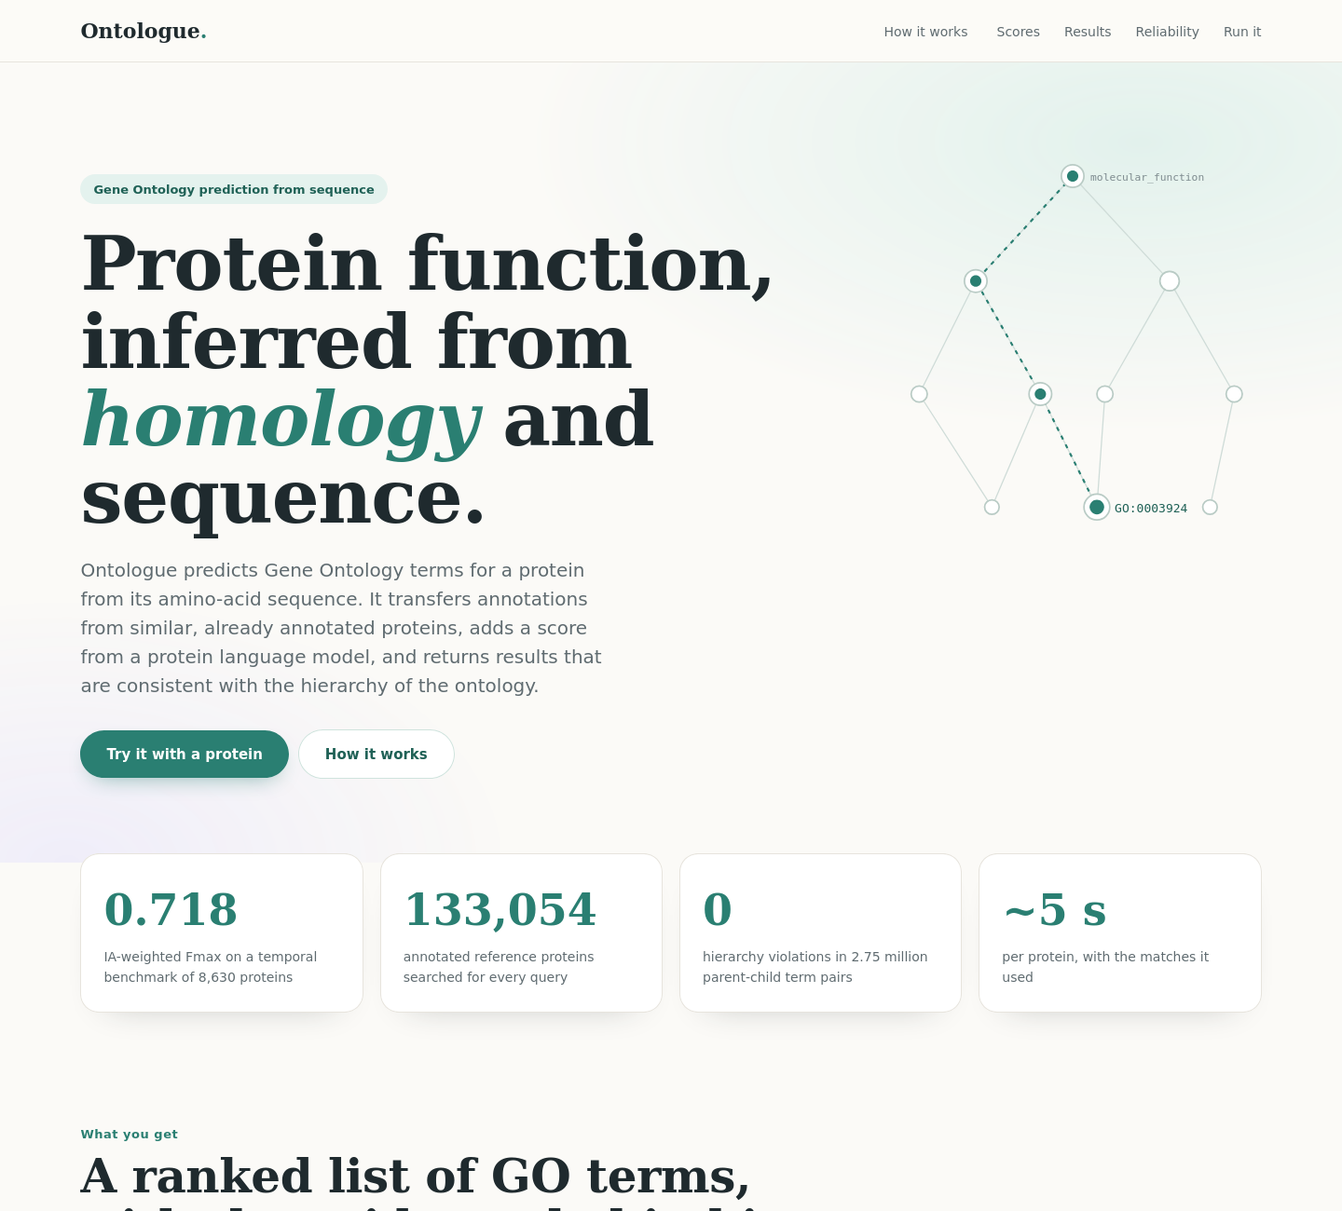
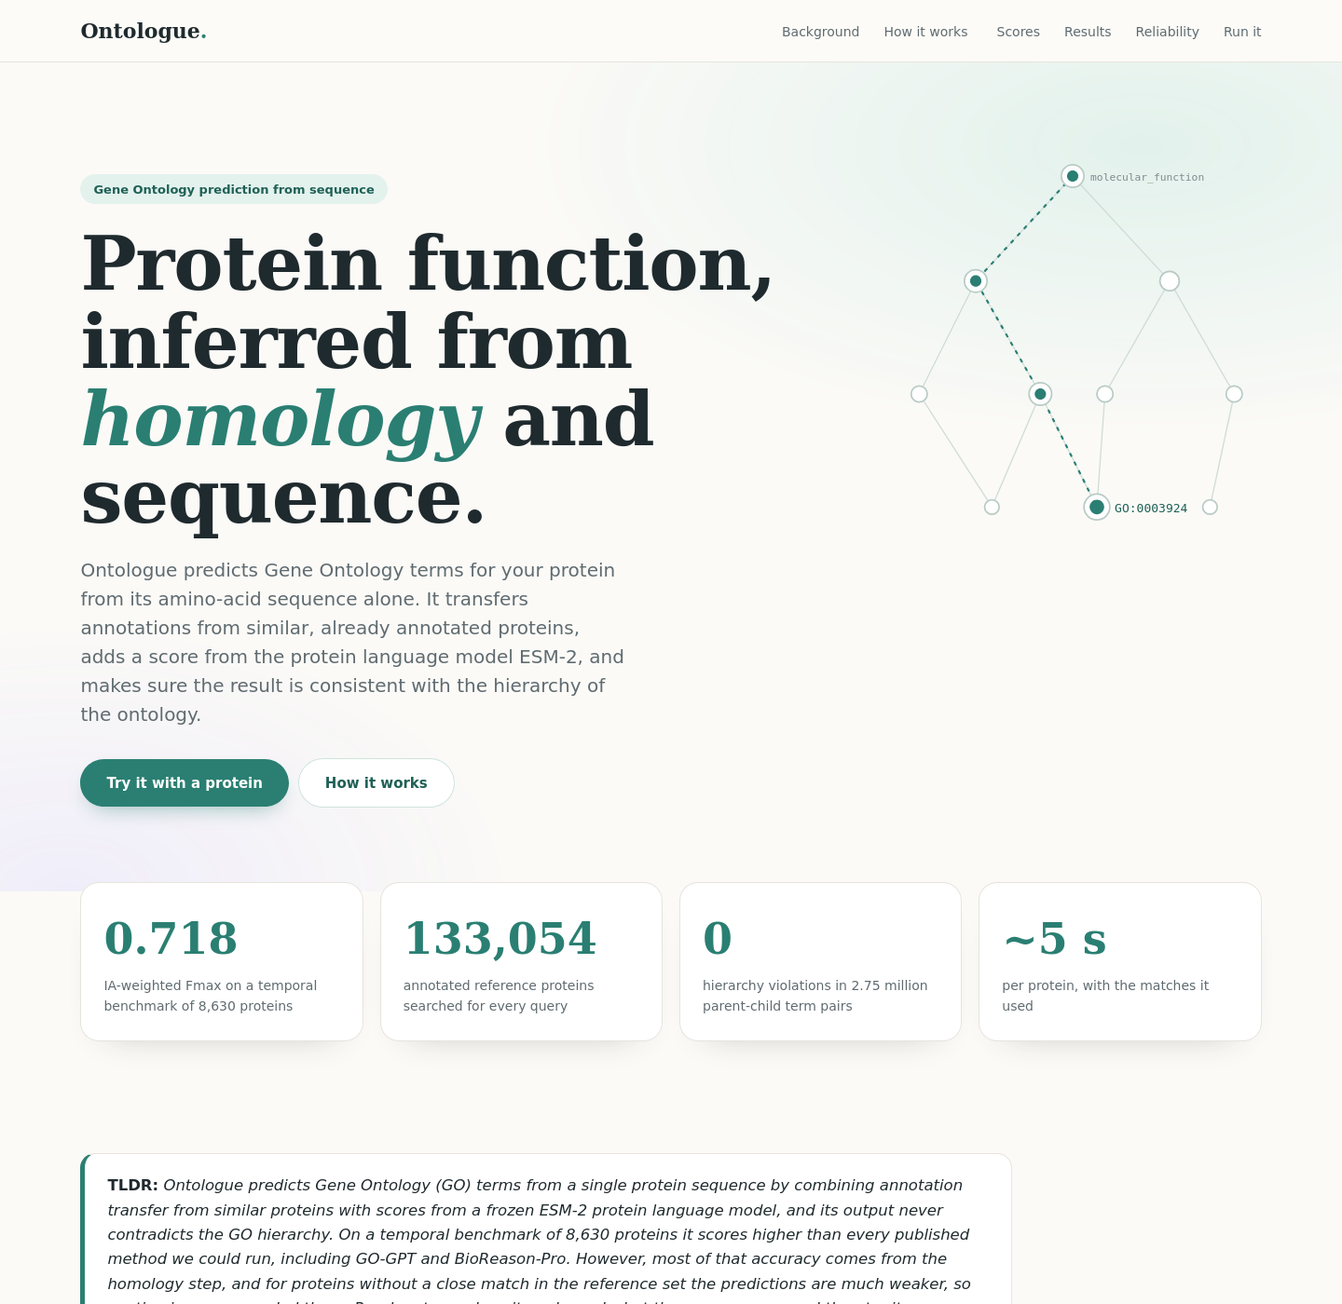
Ontologue: blog-style walkthrough copy (TLDR, What is a GO term, step-by-step voice, caution notes)

diff --git a/src/cafa6/webapp.py b/src/cafa6/webapp.py
@@ -54,6 +54,7 @@ LOCK = threading.Lock()
 TSV_CACHE: "OrderedDict[str, str]" = OrderedDict()
 
 CSS = """
+.tldr{background:#fff;border:1px solid var(--line);border-left:5px solid var(--teal);border-radius:16px;padding:20px 24px;font-size:16.5px;line-height:1.6;color:var(--ink);max-width:1000px}
 :root{--ink:#1f2a2e;--muted:#5f6b70;--bg:#fbfaf7;--teal:#2a7f72;--teal-d:#1f6156;--mint:#e4f2ee;--lav:#ecebf8;
 --peach:#fcefe5;--line:#e7e4dd;--mf:#5b7fd6;--bp:#3aa68a;--cc:#e08a4c;
 --serif:"Iowan Old Style","Palatino Linotype",Palatino,"Book Antiqua",Georgia,serif}
@@ -178,7 +179,7 @@ def predictor() -> Predictor:
     return STATE["predictor"]
 
 
-NAV = f"""<nav><a class="logo" href="/">{BRAND}<b>.</b></a><div class="links"><a href="/#how">How it works</a>
+NAV = f"""<nav><a class="logo" href="/">{BRAND}<b>.</b></a><div class="links"><a href="/#what">Background</a><a href="/#how">How it works</a>
 <a href="/#scores">Scores</a><a href="/#results">Results</a><a href="/#limits">Reliability</a><a href="/#run">Run it</a></div></nav>"""
 
 FOOTER = ""
@@ -235,7 +236,7 @@ SEQ_DEMO = ("MTEYKLVVVGAGGVGKSALTIQLIQNHFVDEYDPTIEDSYRKQVVIDGETCLLDILDTAGQEEYSAM
 ATTN = json.loads((Path(__file__).parent / "web_assets" / "hras_attention.json").read_text())
 # G1-G5 nucleotide-binding boxes of Ras GTPases, positions in human HRAS (Bourne et al., Nature 1991;
 # Vetter & Wittinghofer, Science 2001). Taken from the literature, not from the model.
-MOTIFS = [("G1 P-loop", 10, 17), ("G2", 30, 38), ("G3 DxxG", 57, 60), ("G4 NKxD", 116, 119), ("G5 SAK", 145, 147)]
+MOTIFS = [("G1", 10, 17), ("G2", 30, 38), ("G3", 57, 60), ("G4", 116, 119), ("G5", 145, 147)]
 
 
 def attention_svg() -> str:
@@ -249,7 +250,7 @@ def attention_svg() -> str:
                     f'rx="3" fill="#2a7f72"/>' for _, s0, e in MOTIFS)
     labels = "".join(f'<text x="{x0 + (s0 - 1) * step + dx:.1f}" y="{y0 + h + 28 + dy}" font-size="11" fill="#1f6156" '
                      f'font-weight="600">{n}</text>'
-                     for (n, s0, e), dx, dy in zip(MOTIFS, (0, 0, 0, -24, 0), (0, 0, 0, 0, 0)))
+                     for (n, s0, e), dx, dy in zip(MOTIFS, (0, 0, 0, 0, 0), (0, 0, 0, 0, 0)))
     ticks = "".join(f'<text x="{x0 + (r - 1) * step:.1f}" y="{y0 + h + 52}" font-size="10" fill="#7d8a8e">{r}</text>'
                     for r in (1, 50, 100, 150))
     head = (f'<text x="{x0}" y="16" font-size="12" fill="#4b47a3" font-weight="700">Measured attention of the '
@@ -314,39 +315,43 @@ def steps_html() -> str:
 <div class="step input"><div class="stag">Input</div>
 <div class="seqbox"><span class="seqhdr">&gt;example &nbsp;OX=9606 (Homo sapiens) &nbsp;human HRAS, residues 1-166</span>
 {SEQ_DEMO}</div>
-<p class="legend">An amino-acid sequence and, optionally, its organism (NCBI taxon id). Nothing else is needed: no
-structure, alignment or annotation.</p></div>
+<p class="legend">All you need is an amino-acid sequence and, if you know it, the organism (an NCBI taxon id). No
+multiple sequence alignment, no structure and no prior annotation are required.</p></div>
 <div class="arrow2"><span></span><span></span></div>
 <div class="pair">
 <div class="step"><div class="art">{DOODLE_RELATIVES}</div><div class="txt"><div class="stag">Step 1a</div>
-<h3>Borrow annotations from similar proteins</h3><p>The sequence is searched with DIAMOND against 133,054 proteins
-with known GO annotations, and up to 50 matches are kept. Each match passes on its GO terms. Votes fall off quickly
-with distance: for every 5 percentage points of identity below the best match, a vote counts about a third as much
-(also scaled by alignment score). Terms can come from anywhere in the ontology.</p>
+<h3>First, we look for similar proteins</h3><p>We search your sequence with DIAMOND (a fast BLAST-like aligner)
+against 133,054 proteins whose GO annotations are already known, and keep up to 50 matches. Each match then votes
+for its own GO terms. Votes fall off quickly with distance: for every 5 percentage points of identity below the best
+match, a vote counts about a third as much (it is also scaled by alignment score). This is why we call it
+<em>sharpened</em>: the closest matches dominate, but a few close ones can still pool their evidence.</p>
 <p class="tech">Identity-sharpened k-nearest-neighbour label transfer, temperature 5, top 50 hits</p></div></div>
 <div class="step"><div class="art wide-art">{attention_svg()}</div><div class="txt"><div class="stag">Step 1b</div>
-<h3>Score functions from the sequence alone</h3><p>A protein language model (ESM2, 35 million parameters, used
-unchanged) turns every residue into a numerical description. For each of 7,901 GO terms, a learned query then weighs
-the residues and produces a score. Above, the measured weights for the example: {m["GO:0003924"]:.0%} of the
-"GTPase activity" query falls on the five G boxes that bind GTP in Ras proteins (G1 to G5, positions from the
-literature), which make up 17% of the sequence. These weights show what the network looks at; they are not proof of
-which residues matter.</p>
+<h3>Then, we read the sequence with ESM-2</h3><p>Protein language models like ESM-2 are transformers, like their
+large language model counterparts, but trained on protein sequences instead of text. Each amino acid is a token, and
+the model learns by predicting masked residues. We use the 35-million-parameter ESM-2 as is (frozen) to describe
+every residue, and on top of it a small head with one learned query per GO term (7,901 of them) that weighs the
+residues and gives the term a score. In the plot, {m["GO:0003924"]:.0%} of the "GTPase activity" query lands on the
+five G boxes that bind GTP in Ras proteins (G1 is the P-loop, G3 the DxxG motif, G4 NKxD and G5 SAK; positions
+from the literature), which make up only 17% of the sequence.
+Keep in mind that these weights show where the head looks; they are not proof that those residues cause the
+function.</p>
 <p class="tech">Frozen ESM2-35M with per-term sparse attention pooling (HiGO head)</p></div></div>
 </div>
 <div class="arrow1"></div>
 <div class="step wide"><div class="art">{DOODLE_FUSION}</div><div class="txt"><div class="stag">Step 2</div>
-<h3>Combine the two scores</h3><p>For every candidate GO term, a small neural network combines the homology score and
-the network score with a few facts about the evidence: how similar the best match is, whether it comes from the same
-organism, and how specific the term is. It was fitted on proteins whose annotations grew after the reference
-snapshot, so it learned how far each kind of evidence holds up for annotations that come later. On the benchmark most
-of the accuracy comes from step 1a; the network score matters most when no close match exists.</p>
+<h3>Next, we combine the two scores</h3><p>For every candidate GO term, a small neural network looks at the homology
+score and the ESM-2 score together with a few facts about the evidence: how similar the best match is, whether it
+comes from the same organism, and how specific the term is. We fitted it on proteins whose annotations grew after
+the reference snapshot, so that it learns how well each kind of evidence holds up for annotations that come later.
+In practice, step 1a does most of the work; the ESM-2 score matters most when there is no close match.</p>
 <p class="tech">Per-term nonlinear fusion, cross-fitted on a temporal validation set</p></div></div>
 <div class="arrow1"></div>
 <div class="step wide"><div class="art">{DOODLE_CLOSURE}</div><div class="txt"><div class="stag">Step 3</div>
-<h3>Make the result consistent with the ontology</h3><p>GO terms are nested: a GTPase activity is a hydrolase
-activity, which is a catalytic activity. Each broader term is given at least the score of its most specific
-predicted descendant, so a broad term never scores below a narrower one inside it. These are the real scores for
-the example.</p>
+<h3>Finally, we make it consistent with the ontology</h3><p>GO terms are nested: GTPase activity is a kind of
+hydrolase activity, which is a kind of catalytic activity. So if a protein is a GTPase, it is also a hydrolase. We
+give every broader term at least the score of its most specific predicted descendant, which means the output never
+contradicts itself. The scores in the drawing are the model's real output for the example.</p>
 <p class="tech">True-path rule: max-propagation along is_a and part_of relations</p></div></div>
 <div class="arrow1"></div>
 <div class="step output"><div class="stag">Output</div><h3>Scored GO terms in all three ontologies</h3>
@@ -362,9 +367,9 @@ def landing_html() -> str:
 <header class="hero">{HERO_ART}
 <div class="kicker">Gene Ontology prediction from sequence</div>
 <h1>Protein function, inferred from <em>homology</em> and sequence.</h1>
-<p class="lede">{BRAND} predicts Gene Ontology terms for a protein from its amino-acid sequence. It transfers
-annotations from similar, already annotated proteins, adds a score from a protein language model, and returns
-results that are consistent with the hierarchy of the ontology.</p>
+<p class="lede">{BRAND} predicts Gene Ontology terms for your protein from its amino-acid sequence alone. It
+transfers annotations from similar, already annotated proteins, adds a score from the protein language model ESM-2,
+and makes sure the result is consistent with the hierarchy of the ontology.</p>
 <a class="cta" href="#run">Try it with a protein</a><a class="cta ghost" href="#how">How it works</a>
 </header>
 <div class="stats">
@@ -373,40 +378,62 @@ results that are consistent with the hierarchy of the ontology.</p>
 <div><b>0</b><span>hierarchy violations in 2.75 million parent-child term pairs</span></div>
 <div><b>~5 s</b><span>per protein, with the matches it used</span></div>
 </div>
-<section class="block" id="get"><div class="eyebrow">What you get</div>
-<h2>A ranked list of GO terms, with the evidence behind it</h2>
+<section class="block" id="tldr" style="padding-bottom:0"><div class="tldr"><b>TLDR:</b> <em>{BRAND} predicts Gene
+Ontology (GO) terms from a single protein sequence by combining annotation transfer from similar proteins with
+scores from a frozen ESM-2 protein language model, and its output never contradicts the GO hierarchy. On a temporal
+benchmark of 8,630 proteins it scores higher than every published method we could run, including GO-GPT and
+BioReason-Pro. However, most of that accuracy comes from the homology step, and for proteins without a close match
+in the reference set the predictions are much weaker, so caution is recommended there. Read on to see how it works
+and what the scores mean, and then try it on your favourite protein!</em></div></section>
+<section class="block" id="what"><div class="eyebrow">Background</div>
+<h2>What is... a GO term?</h2>
+<div class="versus"><div class="sub" style="margin:0"><p style="margin-top:0">The Gene Ontology (GO) is a shared
+vocabulary for describing what proteins do. It has three parts: <b>molecular function</b> (what a protein does at the
+molecular level, for example GTPase activity), <b>biological process</b> (the larger programmes it takes part in,
+for example signal transduction) and <b>cellular component</b> (where in the cell it acts, for example the plasma
+membrane).</p>
+<p>The terms form a hierarchy, from broad ones like "catalytic activity" down to very specific ones. A protein
+usually has many terms at once, so predicting them is a multi-label problem, and specific terms are much more
+informative than broad ones. That is why the benchmark weights each term by its information content (IA).</p></div>
+<div class="limits"><h3>Why predict it at all?</h3><p>Only a small fraction of known protein sequences have
+experimentally supported GO annotations, and lab work cannot keep up with sequencing. Computational predictions help
+prioritise which functions to test.</p><p>They are hypotheses, not measurements, so always check them against the
+evidence that comes with each result.</p></div></div></section>
+<section class="block soft" id="get"><div class="eyebrow">What you get</div>
+<h2>What does {BRAND} give you?</h2>
 <div class="cards">
 <article><div class="n">1</div><h3>Terms in three ontologies</h3><p>Molecular function, biological process and
 cellular component, each as a table of GO terms with names, scores and links to QuickGO. Terms above the cut-off
-come first; lower-scoring ones are folded underneath.</p></article>
-<article><div class="n">2</div><h3>The closest matches</h3><p>The five nearest annotated proteins with identity,
-coverage, alignment score and e-value, linked to UniProt, so you can see where the annotations came from and judge
-them yourself.</p></article>
+come first, and the lower-scoring ones are folded underneath.</p></article>
+<article><div class="n">2</div><h3>The closest matches</h3><p>The five nearest annotated proteins, with identity,
+coverage, alignment score and e-value, linked to UniProt. That way you can see where the annotations came from and
+judge them yourself.</p></article>
 <article><div class="n">3</div><h3>A warning when evidence is thin</h3><p>If no reference reaches 30% identity,
-the result says so. Every score is also downloadable as a TSV, and the same predictions are available from a JSON
-API for batch use.</p></article>
+the result tells you so. You can also download every score as a TSV, or call the JSON API for batches.</p></article>
 </div></section>
-<section class="block soft" id="how"><div class="eyebrow">How it works</div>
-<h2>Two sources of evidence, one consistent annotation</h2>
-<p class="sub">Each prediction goes through the same four steps. The example is the GTP-binding domain of human
-HRAS; every number shown is the model's own output for it.</p>
+<section class="block" id="how"><div class="eyebrow">How it works</div>
+<h2>Let's walk through a prediction</h2>
+<p class="sub">Every sequence goes through the same four steps. As an example we'll use the GTP-binding domain of
+human HRAS, a small GTPase that acts as an on/off switch in growth signalling. Every number shown is the model's own
+output for this sequence.</p>
 {steps_html()}</section>
-<section class="block" id="scores"><div class="eyebrow">Reading the scores</div>
-<h2>What a score means</h2>
-<div class="versus"><div class="sub" style="margin:0"><p style="margin-top:0">A score between 0 and 1 says how
-strongly the combined evidence supports a term. It is a ranking score, not a calibrated probability: 0.6 does not
+<section class="block soft" id="scores"><div class="eyebrow">Reading the scores</div>
+<h2>How should you read a score?</h2>
+<div class="versus"><div class="sub" style="margin:0"><p style="margin-top:0">A score between 0 and 1 tells you how
+strongly the combined evidence supports a term. It is a ranking score, not a calibrated probability, so 0.6 does not
 mean a 60% chance.</p>
-<p>The results page marks terms at or above a cut-off for each ontology. These cut-offs gave the best F-measure on
-the benchmark. Because broader terms always score at least as high as narrower ones, the most informative predictions
-are the most specific terms that clear the cut-off.</p></div>
+<p>The results page marks the terms that clear a cut-off for each ontology. We chose these cut-offs because they gave
+the best F-measure on the benchmark. Since broader terms always score at least as high as narrower ones, the most
+useful predictions are usually the most specific terms that still clear the cut-off.</p></div>
 <table class="vtable"><tr><th>ontology</th><th>cut-off</th></tr>
 <tr><td>Molecular function</td><td class="us">0.28</td></tr>
 <tr><td>Biological process</td><td class="us">0.42</td></tr>
 <tr><td>Cellular component</td><td class="us">0.45</td></tr></table></div></section>
-<section class="block soft" id="results"><div class="eyebrow">Results</div>
-<h2>Tested on annotations that came later</h2>
-<p class="sub">The benchmark contains 8,630 proteins whose GO annotations were added after the reference data was
-collected. The final pipeline was chosen on a separate validation set before it was scored on the benchmark.</p>
+<section class="block" id="results"><div class="eyebrow">Results</div>
+<h2>How well does it work?</h2>
+<p class="sub">We tested {BRAND} on 8,630 proteins whose GO annotations were added after the reference data was
+collected, so the model had to predict functions that had not yet been recorded for those proteins. We picked the
+final pipeline on a separate validation set before scoring it on this benchmark.</p>
 <div class="versus"><div><table class="vtable">
 <tr><th>Temporal benchmark, 8,630 proteins</th><th>IA-weighted Fmax</th><th>S-min (lower is better)</th></tr>
 <tr class="hl"><td class="us">{BRAND}</td><td class="us">0.718</td><td class="us">7.56</td></tr>
@@ -422,28 +449,27 @@ collected. The final pipeline was chosen on a separate validation set before it 
 <td style="color:#7d8a8e">n/a</td></tr>
 <tr><td style="color:#7d8a8e">ProtBoost (published, other scorer)</td><td style="color:#7d8a8e">0.606</td>
 <td style="color:#7d8a8e">n/a</td></tr></table>
-<p class="hint" style="margin-top:10px">All rows except the two in grey were scored here with the same code on the same
-proteins. BioReason-Pro was run with its authors' evaluation script and reproduces their published number. "Same
-references" means the 133,054 proteins {BRAND} searches; "training references" means the smaller set the published
-baselines used.</p></div>
-<div class="limits"><h3>How the comparison was checked</h3>
+<p class="hint" style="margin-top:10px">We scored every row except the two in grey ourselves, with the same code on
+the same proteins. We ran BioReason-Pro with its authors' evaluation script, and it reproduces their published
+number. "Same references" means the 133,054 proteins {BRAND} searches; "training references" means the smaller set
+the published baselines used.</p></div>
+<div class="limits"><h3>A word of caution</h3>
 <p>Differences were tested with paired protein-level resampling and corrected for multiple comparisons
-(Holm-Bonferroni). Every published method run here scores below {BRAND} (all intervals exclude zero). Its own homology step
-alone scores slightly higher on Fmax, and the BLAST best hit with the same references is close (+0.009 for {BRAND},
-95% interval +0.004 to +0.015).</p>
+(Holm-Bonferroni). Every published method we ran scores below {BRAND}, and all the intervals exclude zero.</p>
+<p>However, most of the accuracy comes from step 1a. Homology transfer on its own scores 0.721, slightly above the
+full pipeline on Fmax, while the full pipeline makes fewer missed or wrong specific terms (S-min 7.56 against 8.48).
+A plain BLAST best hit with the same references is also close (+0.009 for {BRAND}, 95% interval +0.004 to +0.015).
+So the margin over GO-GPT comes mainly from how the homology evidence is used, not from the language-model branch.</p>
 <p>IA-weighted Fmax by ontology: <b>molecular function 0.738</b>, <b>biological process 0.658</b>,
-<b>cellular component 0.758</b>.</p>
-<p>Most of the accuracy comes from step 1a. Homology transfer alone scores 0.721 IA-weighted Fmax, level with the
-full pipeline; the full pipeline has the lower S-min (7.56 against 8.48), that is, fewer missed or wrong specific
-terms. The margin over GO-GPT is therefore a result of how the homology evidence is used, not of the language-model
-branch.</p></div></div></section>
-<section class="block" id="limits"><div class="eyebrow">When to trust a prediction</div>
-<h2>Accuracy depends on the closest match</h2>
+<b>cellular component 0.758</b>.</p></div></div></section>
+<section class="block soft" id="limits"><div class="eyebrow">When to trust a prediction</div>
+<h2>When should you trust a prediction?</h2>
 <div class="versus"><div class="sub" style="margin:0"><p style="margin-top:0">Most of the accuracy comes from
-annotated proteins that resemble the query. Each result reports the identity of its closest reference, so check it
-first.</p><p><b>95% identity or more:</b> most predicted terms are correct.<br><b>50 to 95%:</b> useful, but look at
-the matches before relying on specific terms.<br><b>Below 50%, or no match:</b> treat the output as hypotheses;
-without a close match the language-model score carries the prediction and accuracy is much lower.</p></div>
+annotated proteins that resemble yours, so the first thing to check on any result is the identity of its closest
+match.</p><p><b>95% identity or more:</b> most predicted terms are correct.<br><b>50 to 95%:</b> useful, but have a
+look at the matches before relying on specific terms.<br><b>Below 50%, or no match:</b> treat the output as
+hypotheses. Without a close match the ESM-2 score carries the prediction, and accuracy is much lower; here GO-GPT is
+still a little better.</p></div>
 <table class="vtable"><tr><th>identity of closest match</th><th>{BRAND}</th><th>GO-GPT (ten samples)</th></tr>
 <tr><td>95% and above</td><td class="us">0.86 to 0.88</td><td>0.84</td></tr>
 <tr><td>80 to 95%</td><td class="us">0.68</td><td>0.67</td></tr>
@@ -453,22 +479,23 @@ without a close match the language-model score carries the prediction and accura
 <tr><td>no match</td><td>0.34</td><td class="us">0.38</td></tr></table></div>
 <p class="hint" style="margin-top:14px">IA-weighted Fmax on the benchmark by identity of the closest reference
 protein.</p></section>
-<section class="block soft" id="scope"><div class="eyebrow">Scope</div>
-<h2>What the model does not use</h2>
+<section class="block" id="scope"><div class="eyebrow">Scope</div>
+<h2>No MSA or structure required, but some limits</h2>
 <div class="cards">
-<article><div class="n">&ndash;</div><h3>No structure or domains</h3><p>It does not use 3D structures, predicted
-structures, domain databases such as InterPro, or multiple sequence alignments. Only the sequence, the organism and
-the reference proteins.</p></article>
+<article><div class="n">&ndash;</div><h3>Sequence only</h3><p>{BRAND} does not need multiple sequence alignments,
+3D structures, predicted structures or domain databases such as InterPro. That makes it fast and easy to use, but it
+also means it cannot use any of that information when it would help.</p></article>
 <article><div class="n">&ndash;</div><h3>A fixed reference snapshot</h3><p>The 133,054 reference proteins and
-their annotations are a fixed snapshot (annotations up to November 2022). Annotations added since then are not used,
+their annotations are a fixed snapshot (annotations up to November 2022). Anything annotated since then is not used,
 even for well-studied proteins.</p></article>
-<article><div class="n">&ndash;</div><h3>No text or interactions</h3><p>It does not read literature, protein-protein
-interaction networks or expression data, and it does not write explanations. Its evidence is the matches it lists
-and the scores it returns.</p></article>
+<article><div class="n">&ndash;</div><h3>No text or interactions</h3><p>It does not read the literature,
+protein-protein interaction networks or expression data, and it does not write explanations. Its evidence is the
+matches it lists and the scores it returns.</p></article>
 </div></section>
 <section class="block run" id="run"><div class="eyebrow">Run it</div>
-<h2>Try it with your protein</h2>
-<p class="sub">Up to 20 sequences at a time, 5,000 residues each.</p>{form_html()}</section>"""
+<h2>Try it on your favourite protein!</h2>
+<p class="sub">Paste up to 20 sequences at a time, 5,000 residues each. If you know a thing or two about your
+protein, compare the predictions with what you know, and tell us where they go wrong.</p>{form_html()}</section>"""
 
 def landing_page() -> HTMLResponse:
     return HTMLResponse(f"""<!doctype html><html lang="en"><head><meta charset="utf-8">
